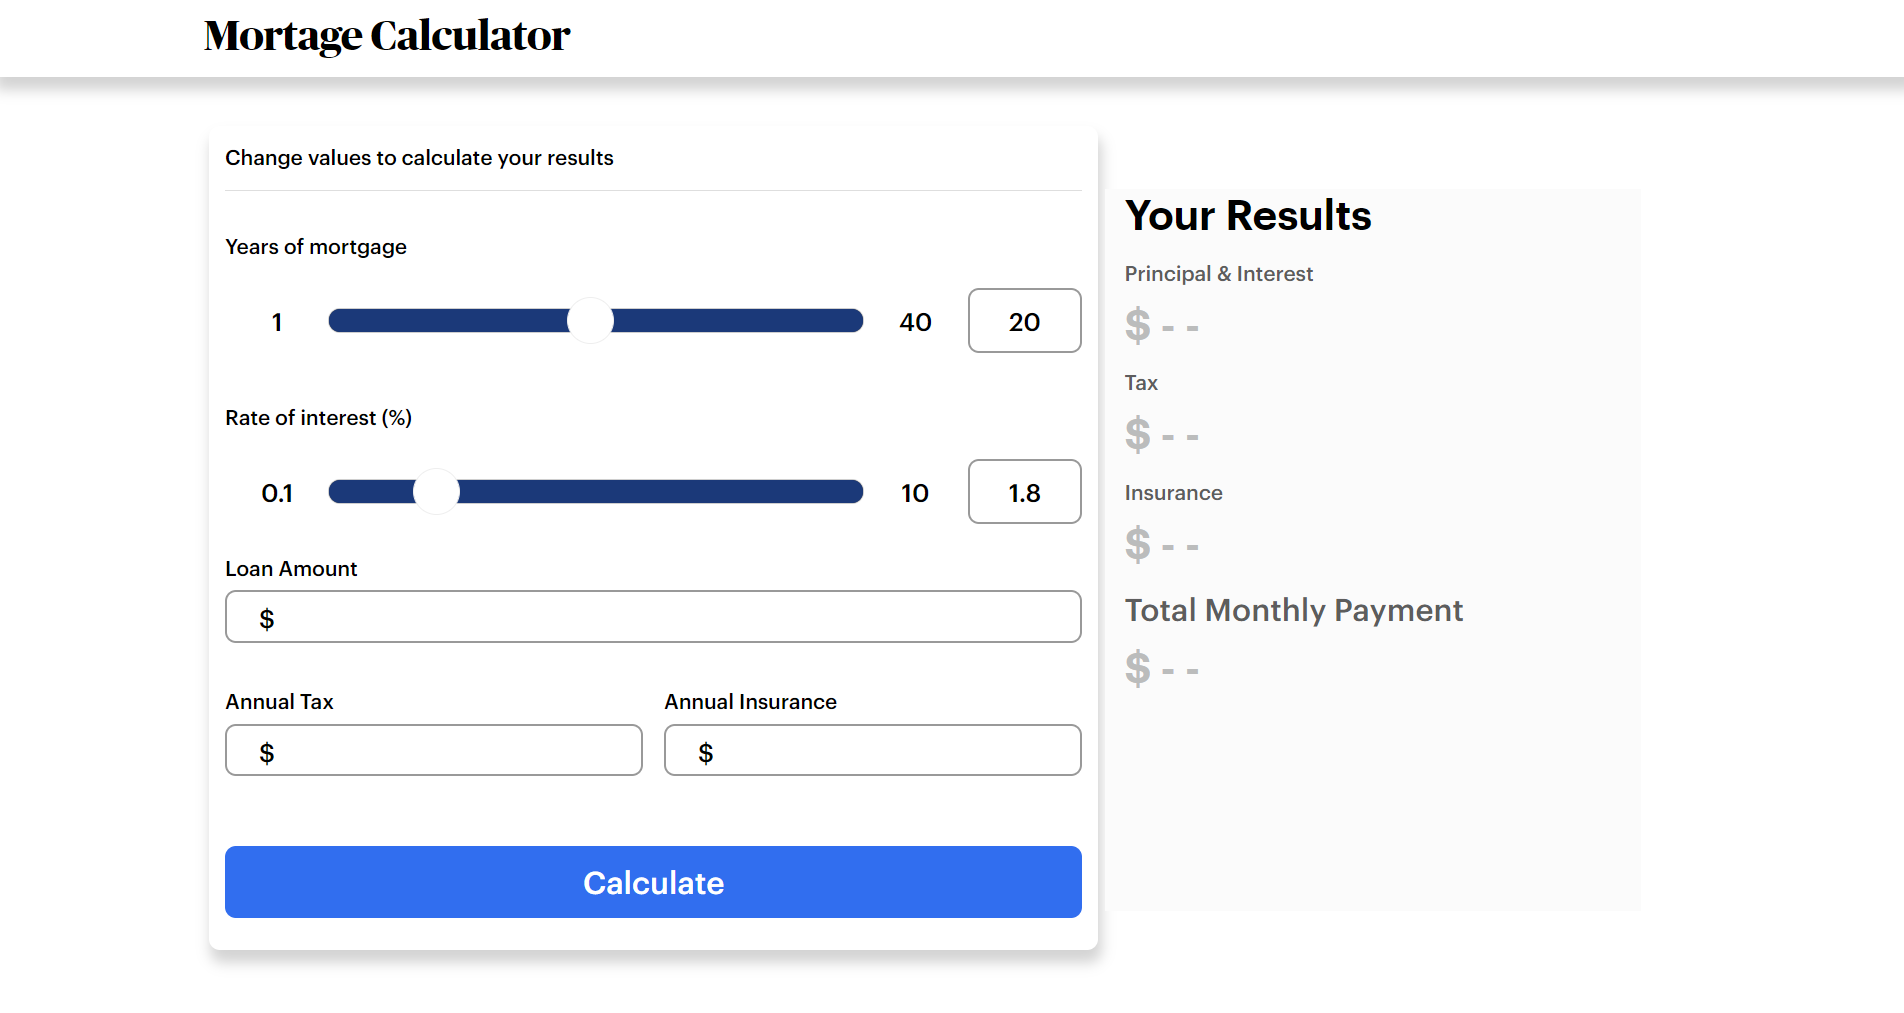
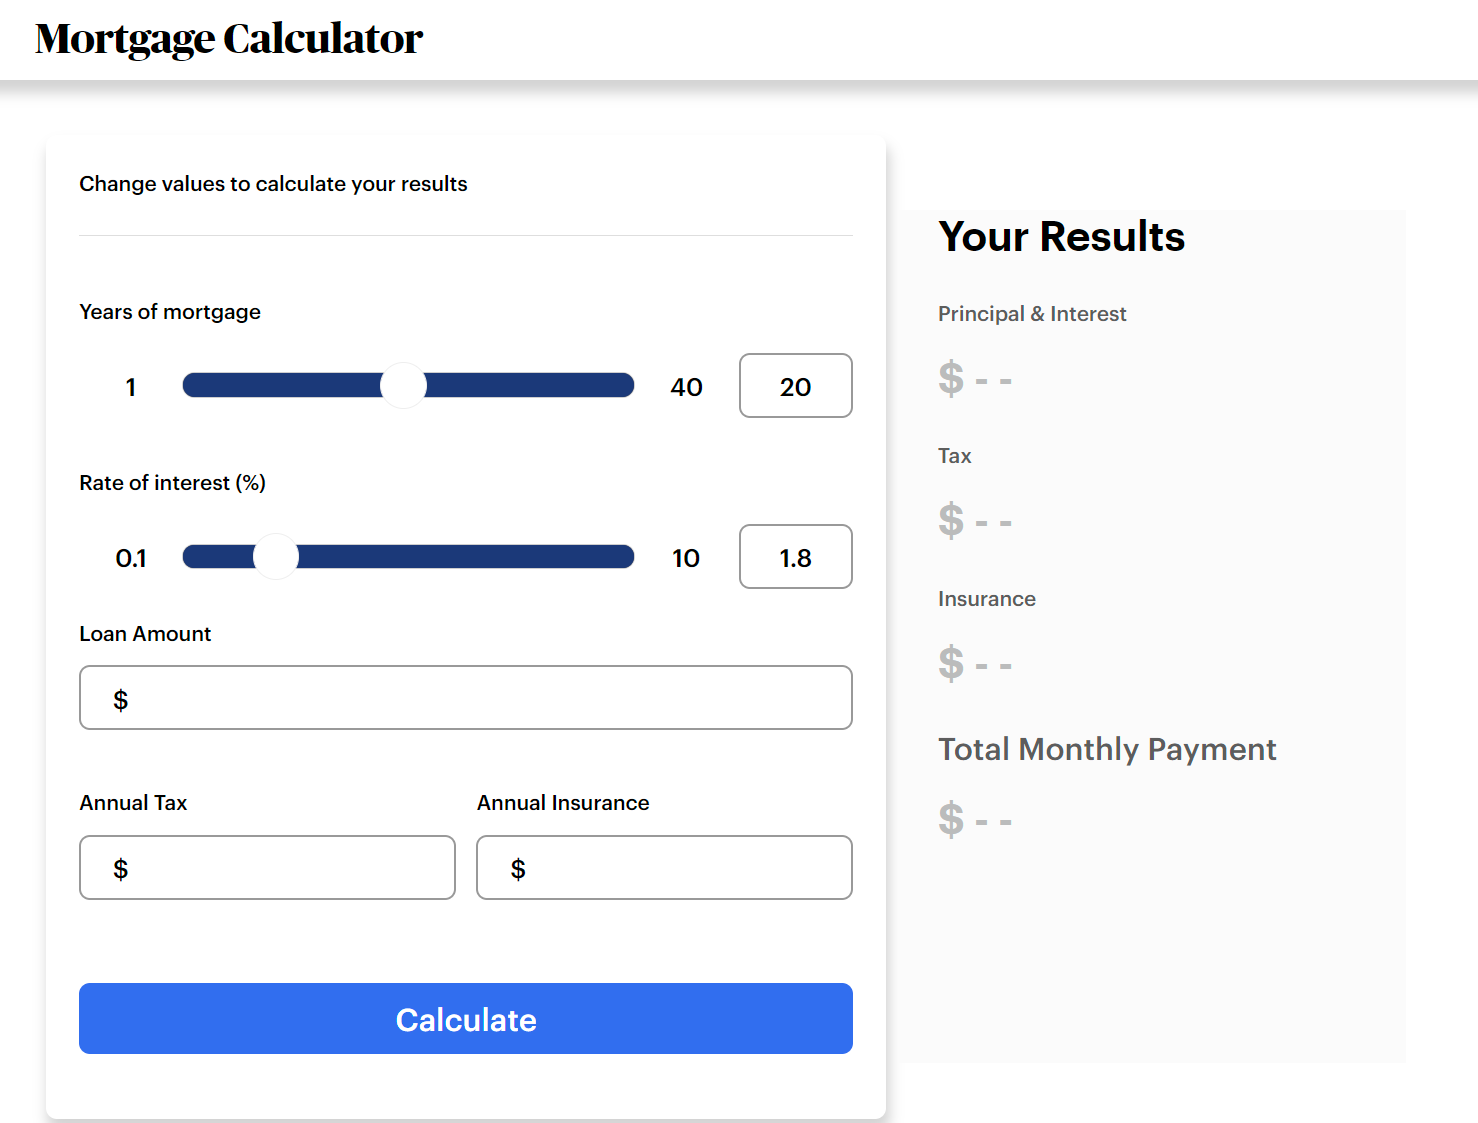
final readme

diff --git a/src/index.html b/src/index.html
@@ -4,14 +4,14 @@
     <meta charset="UTF-8" />
     <meta http-equiv="X-UA-Compatible" content="IE=edge" />
     <meta name="viewport" content="width=device-width, initial-scale=1.0" />
-    <title>Document</title>
+    <title>Mortgage Calculator</title>
     <link rel="stylesheet" href="app.scss" />
     <script type="module" src="app.js"></script>
   </head>
   <body>
     <div class="container">
       <div class="app-bar">
-        <h1>Mortage Calculator</h1>
+        <h1>Mortgage Calculator</h1>
       </div>
       <main>
         <ash-card-calculator></ash-card-calculator>

diff --git a/src/components/card-calculator/index.js b/src/components/card-calculator/index.js
@@ -72,8 +72,6 @@ class CardCalculator extends HTMLElement {
 
   constructor() {
     super();
-    console.log('mortgage', mortgageMath);
-    this.mortgageMath = mortgageMath;
     const template = document.createElement('template');
     template.innerHTML = src;
     this.classList.add('card-calculator');

diff --git a/readme.md b/readme.md
@@ -1,20 +1,135 @@
-# 📅 Mortagage Calculator 📅
+# 📅 Mortgage Calculator 📅
+
+## See it live [here](https://mortgage.marques.top)
 
 ![home](assets/homescreen.png)
+
+## ⚡ Objective
+
+Implement a simple and responsive Mortgage calculator using ES6 features and Sass with no frameworks.
 
 ## 👩💻 Getting Started
 
 1. Clone this repo and `cd` into it.
 1. Restore de packgages with the command: `npm install`♾
-1. After download half of the internet, then start the app: `npm run dev` and wait for this message:
+1. After downloading half of the internet start the app with the command: `npm run dev` and wait for this message:
    <img src="assets/finishdev.png" width="250px">
 1. You now can open your browser at `http://localhost:1234/`🚀
+1. You also can run the tests using: `npm run test`
 
-### Plain Javascript⁉
+```
+ PASS  src/modules/math.test.js
+  Tax function tests
+    √ Should be 100 when annualTax is 1200
+    √ Should be 40 when annualTax is 480
+    √ Should be 0 when annualTax is negative number (-120)
+    √ Should be 0 when annualTax is 0
+    √ Should be 0 when annualTax is NaN ("1d000") (1 ms)
+    √ Should be 83.33 when annualTax is 1000
+  Insurance function tests
+    √ Should be 100 when annualInsurance is 1200
+    √ Should be 40 when annualInsurance is 480
+    √ Should be 0 when annualInsurance is negative number (-120)
+    √ Should be 0 when annualInsurance is 0
+    √ Should be 0 when annualInsurance is NaN ("1d000")
+    √ Should be 25.0 when annualInsurance is 300 (1 ms)
+    √ Should be 8.33 when annualInsurance is 100
+  Principle & Interest tests
+    √ Should return 0 when interestRate is NaN (1 ms)
+    √ Should return 0 when interestRate is a negative number (2 ms)
+    √ Should return 0 when interestRate is equals to 0
+    √ Should return 0 when loanAmount is NaN
+    √ Should return 0 when loanAmount is a negative number
+    √ Should return 0 when loanAmount is equals to 0
+    √ Should return 0 when yearsOfMortgage is NaN
+    √ Should return 0 when yearsOfMortgage is a negative number
+    √ Should return 0 when yearsOfMortgage is equals to 0
+    √ Should return 1438.79 when interestRate=1.8 loanAmount=400K yearsOfMortage=30
+  Monthly payment
+    √ Should be 1547.12 when interestRate=1.8 loanAmount=400K yearsOfMortage=30 annualTax=1000 annualInsurance=300
 
-1. Custom Elements provide very clean declarations with easy maintanence
-   <img src="assets/customElements.png" style="max-width:50%">
+Test Suites: 1 passed, 1 total
+Tests:       24 passed, 24 total
+Snapshots:   0 total
+Time:        0.204 s, estimated 1 s
+Ran all test suites.
+```
+
+## 📚 Stack
+
+1. Custom Elements provide very clean declarations with easy maintenance
+
+```js
+class CardCalculator extends HTMLElement {
+  // Method's bodies were removed for simplicity
+  get result() {} //..
+  get button() {} //..
+  get annualTax() {} //..
+  get annualInsurance() {} //..
+  get loan() {} //..
+  get years() {} //..
+  get rate() {} //..
+
+  constructor() {
+    super();
+    //..
+  }
+
+  connectedCallback() {
+    //..
+  }
+}
+window.customElements.define('ash-card-calculator', CardCalculator);
+```
 
 1. it also provides component base model on html
 
-   <img src="assets/indexhtml.png" style="max-width:50%">
+```html
+<!DOCTYPE html>
+<html lang="en">
+  <head>
+    <meta charset="UTF-8" />
+    <meta http-equiv="X-UA-Compatible" content="IE=edge" />
+    <meta name="viewport" content="width=device-width, initial-scale=1.0" />
+    <title>Mortgage Calculator</title>
+    <link rel="stylesheet" href="app.scss" />
+    <script type="module" src="app.js"></script>
+  </head>
+  <body>
+    <div class="container">
+      <div class="app-bar">
+        <h1>Mortgage Calculator</h1>
+      </div>
+      <main>
+        <ash-card-calculator></ash-card-calculator>
+      </main>
+    </div>
+  </body>
+</html>
+```
+
+1. Using [Parcel](https://parceljs.org/) as building tool
+1. Unit testing critical functions using Jest:
+   <img src="assets/unitTest.png">
+1. Global Sass for all components
+   <img src="assets/styles.png">
+
+## 🤔 Why not...
+
+### - using a framework like Angular, React or Vue instead of plain javascript?
+
+It was a requirement not to.
+
+### - using ShadowDom If you are Custom Elements?
+
+I couldn't make work with global stylesheet, and guess what: global stylesheet it was a requirement as well.
+
+### - using a css framework like Bootstrap or Bulma?
+
+It was a requirement not to.
+
+## 🐞 Known Issues
+
+1. Slider
+   - The right part (the upper numbers part) of the track should be _greyish_ but is with the same color of lower part (_blue_).
+   - on smaller devices it gets hard to move the thumb, to help mitigate that problem the slider's input box can be used instead.
